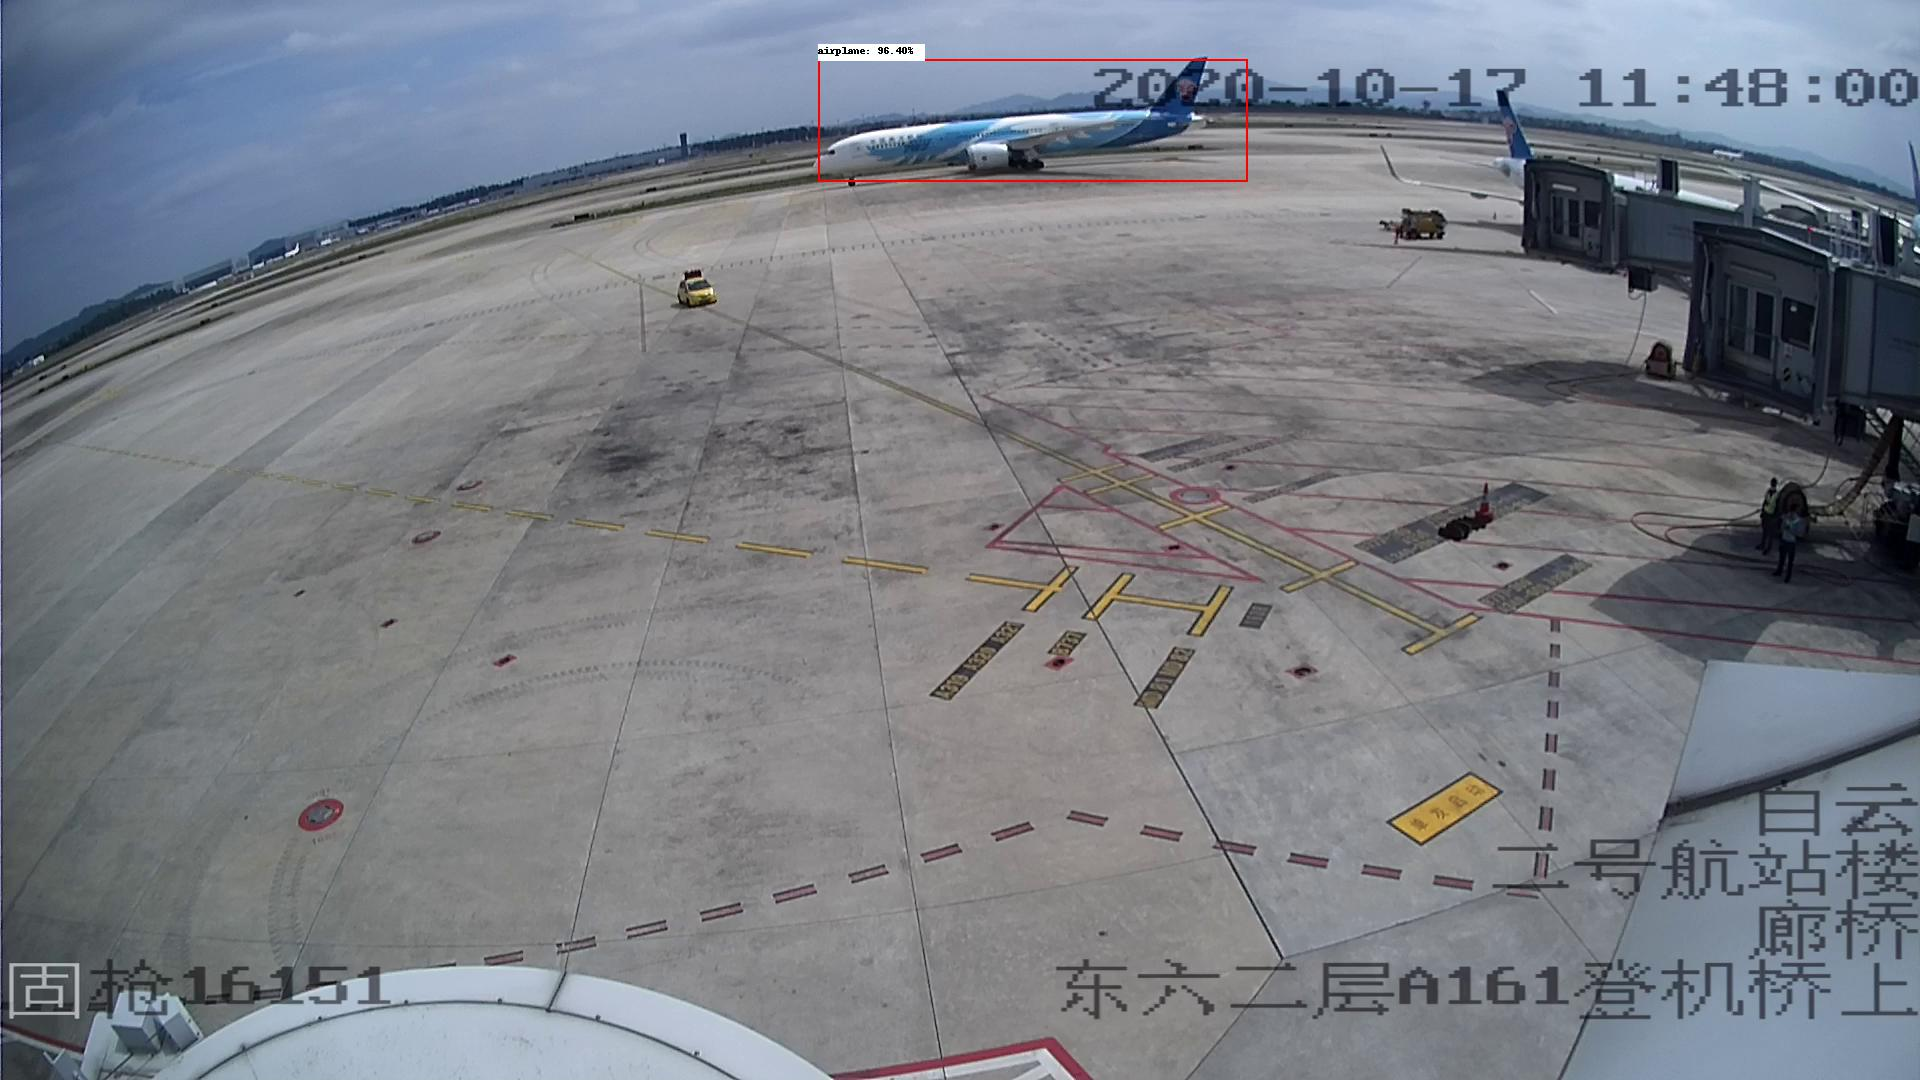
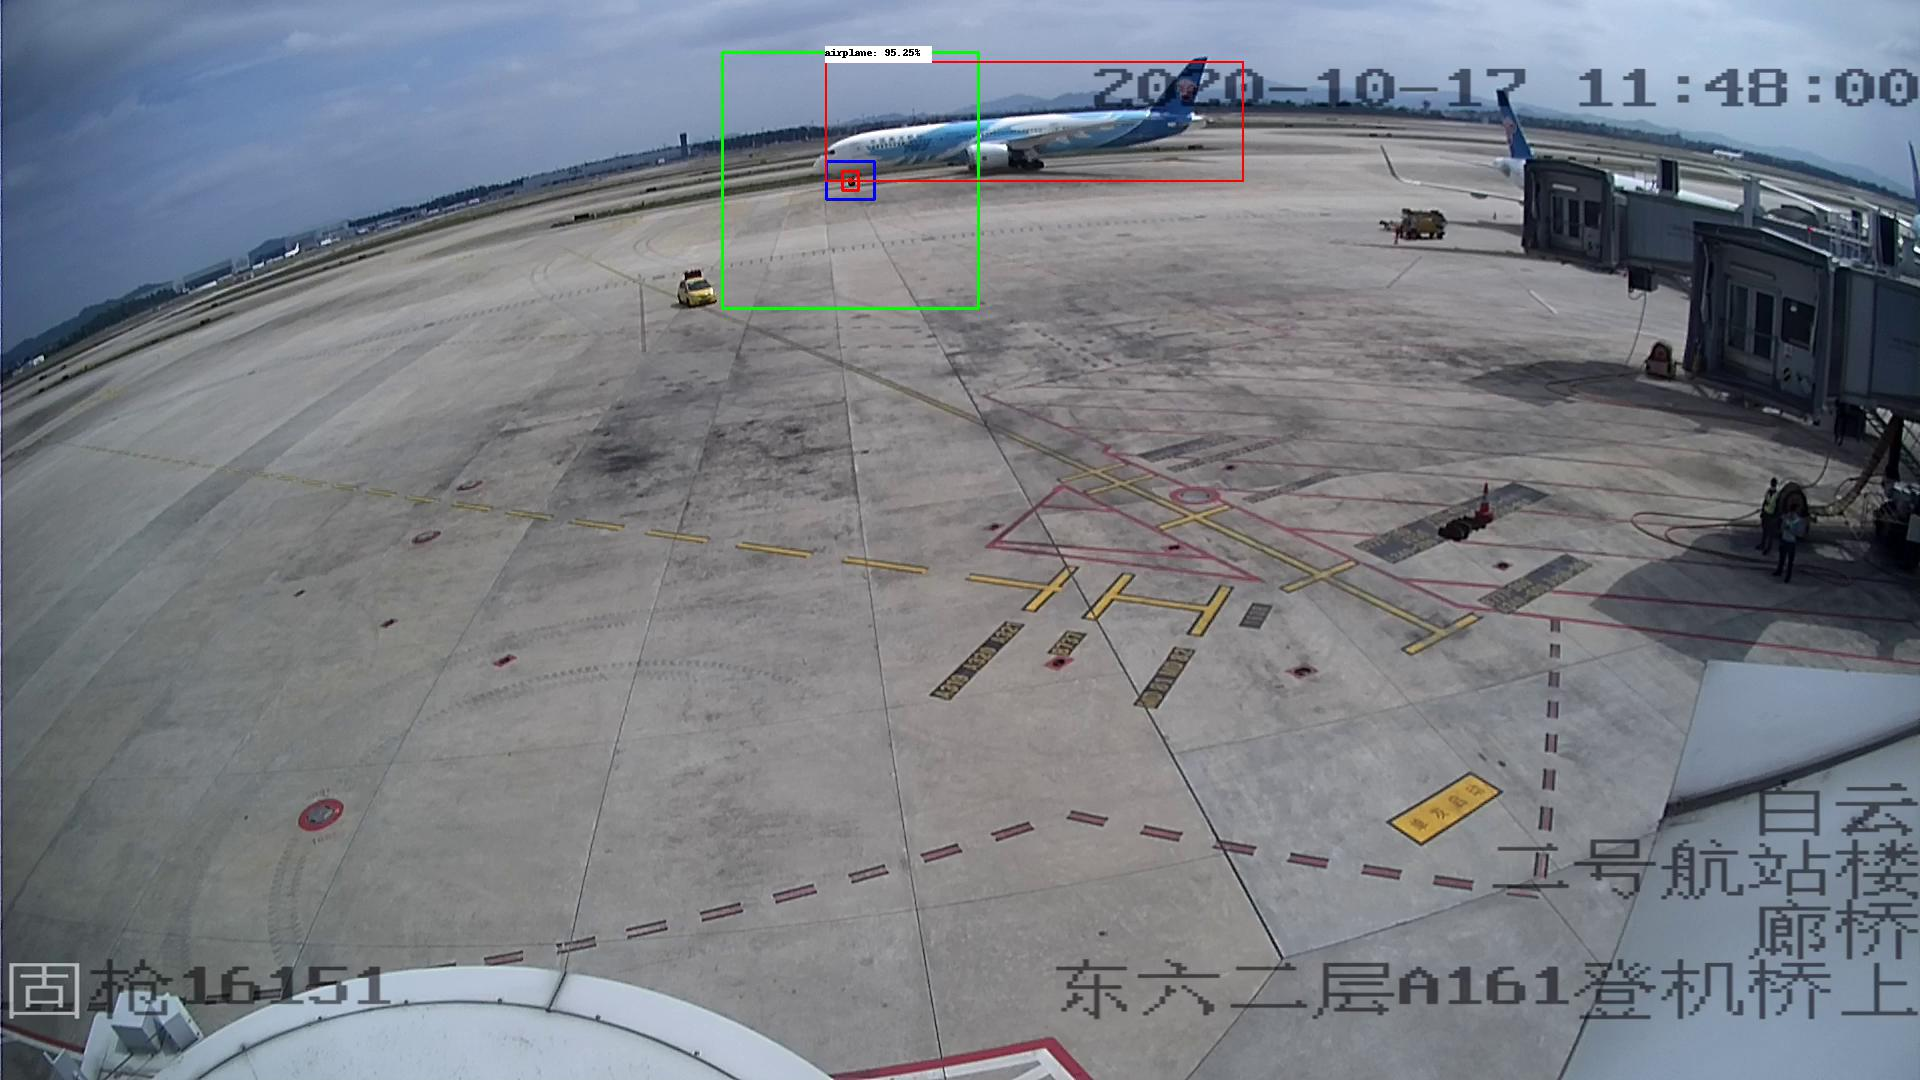
add

Changed region(s): [[0.375, 0.0306, 0.6562, 0.1833], [0.375, 0.275, 0.5, 0.3056]]

diff --git a/det/v_combo.py b/det/v_combo.py
@@ -88,8 +88,8 @@ def det(images, names):
 
 
 def draw(image, name, flg, people):
-    print(flg)
-    print(people)
+    # print(flg)
+    # print(people)
     g = flg[0]["bbox"]
     g = toint([g[1], g[0], g[3], g[2]]) # 起落架范围
     gc = toint([g[0]+g[2]/2, g[1]+g[3]/2]) # 起落架中心
@@ -134,7 +134,7 @@ def main():
                 det(images, names)
 
             images.append(image)
-            names.append(str(idx).zfill(6)+".png")
+            names.append(osp.join(vid_name, vid_name + "-" + str(idx).zfill(6)+".png"))
             idx += args.itv
 
         shutil.move(osp.join(args.output, "draw", vid_name), osp.join(args.output, "draw-fin"))
